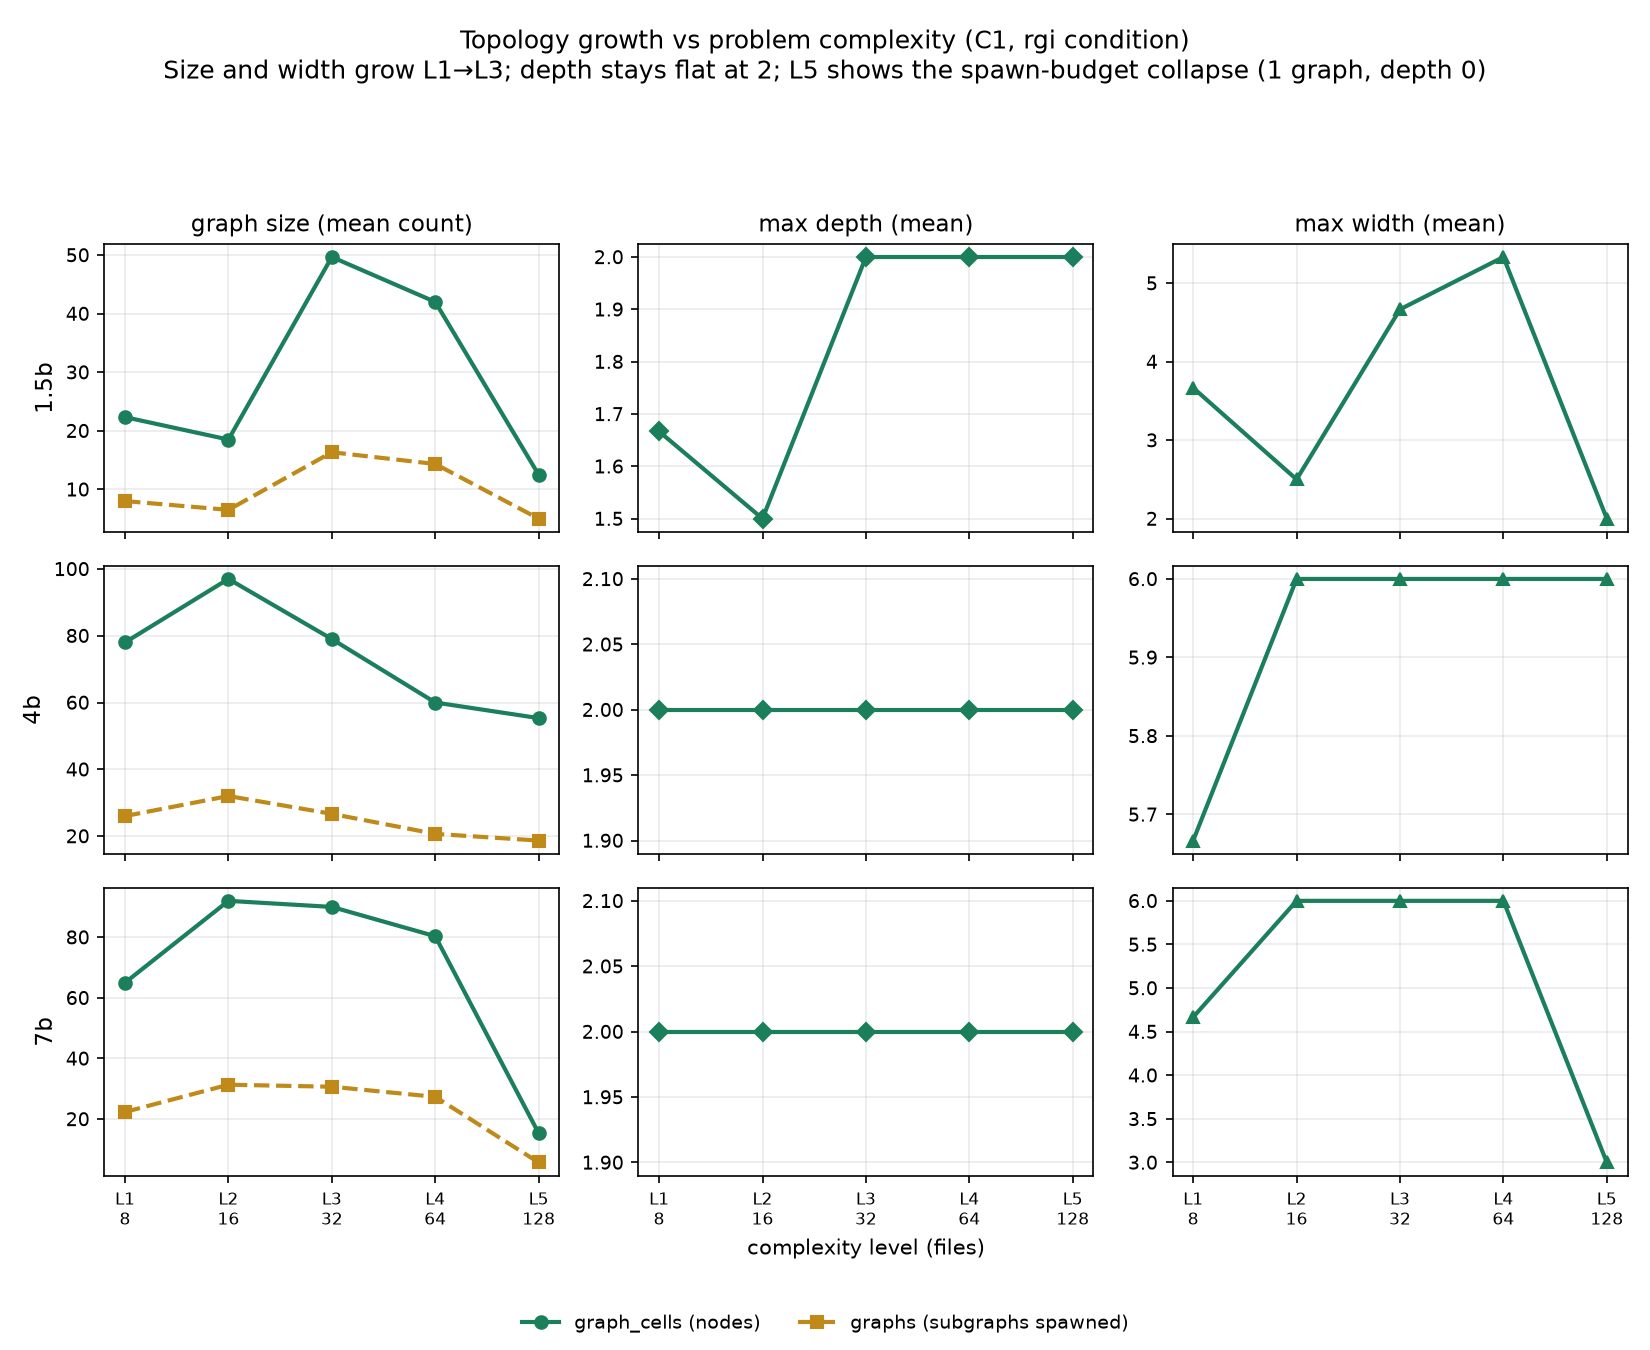
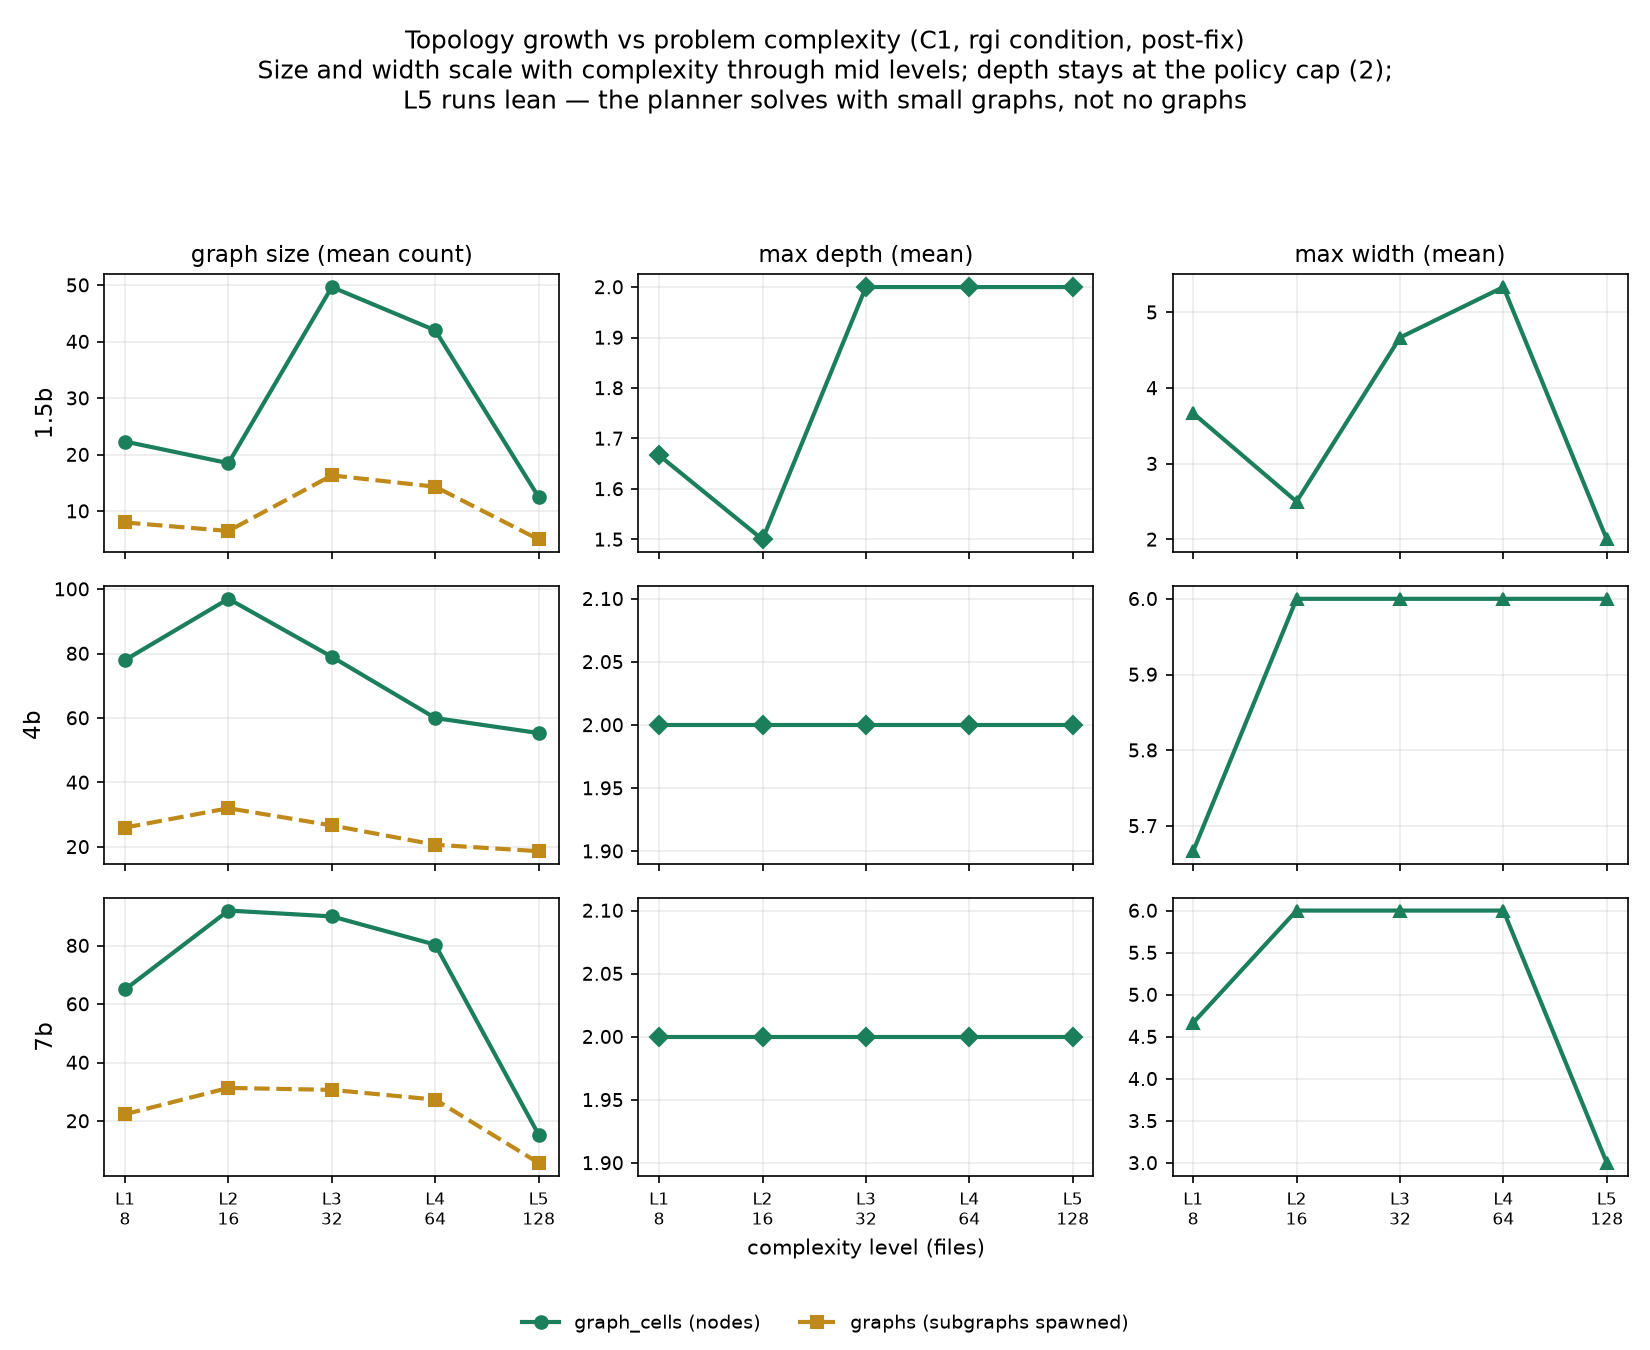
Figure fixes: fig4 coupling reads main C1 files only (8k/mock side files no longer pollute the scatter); fig6 subtitle updated for post-fix reality (L5 runs lean, not collapsed)

diff --git a/benchmarks/make_figures.py b/benchmarks/make_figures.py
@@ -203,7 +203,7 @@ def _c1_rgi_topology():
 def fig6_topology_growth():
     """Does RGI grow deeper/wider graphs as problems get harder?
     3x3 small-multiple: rows = models, cols = graph size / max depth / max width.
-    The L5 collapse (spawn budget refuses every child graph) is left unsmoothed."""
+    Post-fix (f782c28): L5 no longer collapses — recall holds with lean graphs."""
     topo = _c1_rgi_topology()
     fig, axes = plt.subplots(3, 3, figsize=(11, 9), sharex=True)
     for row, (model, lv) in enumerate(topo.items()):
@@ -230,9 +230,9 @@ def fig6_topology_growth():
     axes[0][1].set_title("max depth (mean)", fontsize=11)
     axes[0][2].set_title("max width (mean)", fontsize=11)
     axes[2][1].set_xlabel("complexity level (files)", fontsize=10)
-    fig.suptitle("Topology growth vs problem complexity (C1, rgi condition)\n"
-                 "Size and width grow L1→L3; depth stays flat at 2; "
-                 "L5 shows the spawn-budget collapse (1 graph, depth 0)", fontsize=12)
+    fig.suptitle("Topology growth vs problem complexity (C1, rgi condition, post-fix)\n"
+                 "Size and width scale with complexity through mid levels; depth stays at the policy cap (2);\n"
+                 "L5 runs lean — the planner solves with small graphs, not no graphs", fontsize=12)
     fig.legend(*axes[0][0].get_legend_handles_labels(), loc="lower center",
                ncol=2, fontsize=9, frameon=False)
     fig.tight_layout(rect=(0, 0.05, 1, 0.92))
@@ -243,8 +243,9 @@ def fig6_topology_growth():
 def fig4_coupling():
     """The mechanism: graphs spawned vs recall, per RGI cell."""
     pts = []
-    for path in glob.glob("data/complexity_c1*.json"):
-        model = "1.5b" if path == "data/complexity_c1.json" else path.split("_")[-1].replace(".json", "")
+    for model, path in C1_FILES.items():  # main files only — not the 8k/mock side files
+        if not Path(path).exists():
+            continue
         for c in _load(path):
             if c["condition"] == "rgi" and c.get("status") == "completed":
                 tm = c.get("topology_metrics", {})
